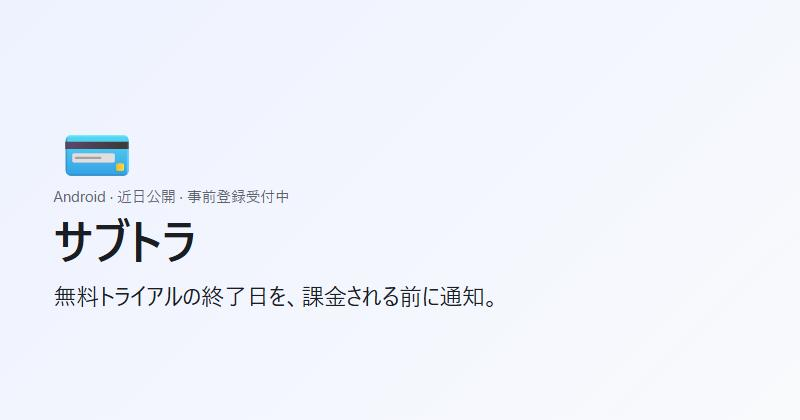
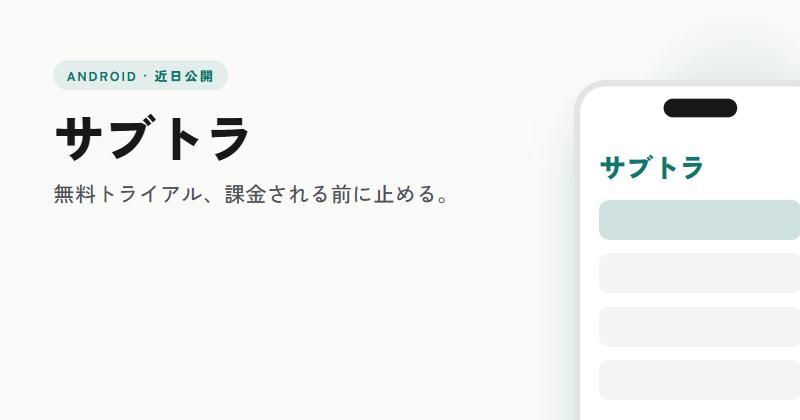
Redesign landing page: per-app accent, app preview, features grid, FAQ

diff --git a/docs/index.html b/docs/index.html
@@ -4,78 +4,203 @@
 <meta charset="utf-8">
 <meta name="viewport" content="width=device-width,initial-scale=1">
 <title>サブトラ | 近日公開 事前登録</title>
-<meta name="description" content="無料トライアルの終了日を、課金される前に通知。 Androidアプリ「サブトラ」の事前登録。">
-<meta property="og:title" content="サブトラ — 無料トライアルの終了日を、課金される前に通知。">
+<meta name="description" content="無料トライアル、課金される前に止める。 Androidアプリ「サブトラ」の事前登録。">
+<meta property="og:title" content="サブトラ | 無料トライアル、課金される前に止める。">
 <meta property="og:description" content="近日公開のAndroidアプリ。事前登録が多ければ優先してリリースします。">
 <meta property="og:image" content="https://is-gts.github.io/subtra/og.png">
 <meta property="og:url" content="https://is-gts.github.io/subtra/">
 <meta name="twitter:card" content="summary_large_image">
+<meta name="theme-color" content="#0f766e">
+<link rel="preconnect" href="https://fonts.googleapis.com"><link rel="preconnect" href="https://fonts.gstatic.com" crossorigin>
+<link href="https://fonts.googleapis.com/css2?family=Zen+Kaku+Gothic+New:wght@400;500;700;900&display=swap" rel="stylesheet">
 <style>
-:root{--bg:#f6f7f9;--card:#fff;--fg:#1a1d21;--muted:#5c6470;--line:#e3e6ea;--accent:#2563eb;--ok:#15803d}
-@media(prefers-color-scheme:dark){:root{--bg:#0f1115;--card:#181b21;--fg:#eceef1;--muted:#9aa3ad;--line:#2a2f37;--accent:#60a5fa;--ok:#4ade80}}
+:root{--bg:#fafaf9;--bg2:#f4f4f3;--fg:#18181b;--muted:#5b5b63;--line:#e4e4e7;--card:#ffffff;--accent:#0f766e;--accent-fg:#ffffff;--soft:color-mix(in srgb,#0f766e 9%,#fafaf9);--soft2:color-mix(in srgb,#0f766e 18%,#fafaf9);--ok:#15803d;--shadow:0 20px 60px -20px color-mix(in srgb,#0f766e 35%,transparent)}
+@media(prefers-color-scheme:dark){:root{--bg:#121214;--bg2:#18181b;--fg:#f4f4f5;--muted:#a1a1aa;--line:#2a2a30;--card:#1c1c21;--accent:#2dd4bf;--accent-fg:#101012;--soft:color-mix(in srgb,#2dd4bf 12%,#121214);--soft2:color-mix(in srgb,#2dd4bf 22%,#121214);--ok:#4ade80;--shadow:0 20px 60px -20px rgba(0,0,0,.6)}}
 *{box-sizing:border-box}
-body{margin:0;background:var(--bg);color:var(--fg);font:16px/1.6 system-ui,-apple-system,"Segoe UI",Roboto,"Hiragino Sans","Noto Sans JP",sans-serif}
-main{max-width:560px;margin:0 auto;padding:48px 16px 64px}
-.icon{font-size:64px;line-height:1;margin-bottom:12px}
-h1{font-size:clamp(30px,7vw,42px);line-height:1.25;margin:0 0 8px}
-.pitch{font-size:20px;font-weight:600;margin:0 0 20px}
-ul{margin:0 0 28px;padding-left:20px;color:var(--muted)}
-.badge{display:inline-block;font-size:13px;color:var(--muted);border:1px solid var(--line);border-radius:999px;padding:2px 10px;margin-bottom:16px}
-form{display:flex;gap:8px}
-input[type=email]{flex:1;min-width:0;padding:12px 14px;border:1px solid var(--line);border-radius:8px;background:var(--card);color:var(--fg);font-size:16px}
-button{padding:12px 18px;border:0;border-radius:8px;background:var(--accent);color:#fff;font-weight:600;font-size:16px;cursor:pointer;white-space:nowrap}
-button:disabled{opacity:.6;cursor:default}
-.msg{font-size:14px;min-height:1.4em;margin:8px 0 0}
-.msg.ok{color:var(--ok)}
-.hp{position:absolute;left:-9999px}
-.features{margin-top:48px;padding-top:32px;border-top:1px solid var(--line)}
-.features h2{font-size:22px;margin:0 0 20px}
-.features dl{margin:0;display:grid;gap:18px}
-.features dt{font-weight:600;margin:0 0 2px}
-.features dd{margin:0;color:var(--muted);font-size:15px}
-footer{margin-top:40px;color:var(--muted);font-size:13px}
+html{scroll-behavior:smooth}
+body{margin:0;background:var(--bg);color:var(--fg);font-family:"Zen Kaku Gothic New",system-ui,-apple-system,"Hiragino Sans","Noto Sans JP",sans-serif;font-size:16px;line-height:1.7;-webkit-font-smoothing:antialiased}
+.wrap{max-width:1080px;margin:0 auto;padding:0 20px}
+header{display:flex;align-items:center;justify-content:space-between;height:64px}
+.brand{font-weight:900;font-size:18px;display:flex;align-items:center;gap:10px}
+.brand i{width:12px;height:12px;border-radius:4px;background:var(--accent);display:inline-block}
+.tag{font-size:13px;color:var(--muted);font-weight:500}
+
+.hero{display:grid;grid-template-columns:1.1fr .9fr;gap:48px;align-items:center;padding:16px 0 72px;min-height:calc(100dvh - 64px)}
+.hero h1{font-size:clamp(32px,4vw,46px);line-height:1.22;font-weight:900;letter-spacing:-.01em;margin:0 0 18px}
+.hero p.sub{font-size:17px;color:var(--muted);margin:0 0 28px;max-width:34em}
+.eyebrow{display:inline-block;font-size:12px;font-weight:700;letter-spacing:.14em;color:var(--accent);background:var(--soft);padding:5px 12px;border-radius:999px;margin-bottom:18px}
+
+.reg label{display:block;font-size:13px;font-weight:700;margin-bottom:6px}
+.reg .row{display:flex;gap:8px}
+.reg input[type=email]{flex:1;min-width:0;padding:13px 14px;border:1.5px solid var(--line);border-radius:12px;background:var(--card);color:var(--fg);font:inherit;font-size:16px;transition:border-color .2s,box-shadow .2s}
+.reg input[type=email]::placeholder{color:#8a8a93}
+.reg input[type=email]:focus{outline:0;border-color:var(--accent);box-shadow:0 0 0 4px var(--soft2)}
+.reg button{padding:13px 22px;border:0;border-radius:12px;background:var(--accent);color:var(--accent-fg);font:inherit;font-weight:700;font-size:16px;cursor:pointer;white-space:nowrap;transition:transform .12s,filter .2s}
+.reg button:hover{filter:brightness(1.08)}
+.reg button:active{transform:scale(.97)}
+.reg button:disabled{opacity:.55;cursor:default;transform:none}
+.msg{font-size:14px;min-height:1.5em;margin:8px 0 0;color:var(--muted)}
+.msg.ok{color:var(--ok);font-weight:700}
+.msg.err{color:#dc2626}
+.hp{position:absolute;left:-9999px;width:1px;height:1px}
+.note{font-size:12.5px;color:var(--muted);margin:10px 0 0}
+
+.stage{display:flex;justify-content:center;position:relative}
+.stage::before{content:"";position:absolute;inset:10% -10% 0;background:radial-gradient(60% 60% at 50% 60%,var(--soft2),transparent 70%);z-index:0;pointer-events:none}
+.phone{position:relative;z-index:1;width:300px;aspect-ratio:9/18.5;border-radius:38px;background:var(--card);border:1px solid var(--line);box-shadow:var(--shadow),0 0 0 8px color-mix(in srgb,var(--fg) 6%,transparent);padding:48px 16px 20px;overflow:hidden;transform:rotate(-3deg)}
+.phone::before{content:"";position:absolute;top:14px;left:50%;width:84px;height:22px;transform:translateX(-50%);border-radius:999px;background:color-mix(in srgb,var(--fg) 85%,var(--bg))}
+.m-top{display:flex;justify-content:space-between;align-items:baseline;margin-bottom:12px}
+.m-top span{font-size:12px;color:var(--muted)}
+.m-top strong{font-size:22px;font-weight:900}
+.m-row{display:flex;justify-content:space-between;align-items:center;padding:11px 12px;border-radius:12px;background:var(--bg2);margin-bottom:8px;font-size:13px}
+.m-row b{display:block;font-weight:700}
+.m-row small{color:var(--muted);font-size:11px}
+.m-row em{font-style:normal;color:var(--muted);font-size:12px;white-space:nowrap}
+.m-row.m-hot{background:var(--soft2)}
+.m-row.m-hot em{color:var(--accent);font-weight:700}
+.m-route{position:relative;margin:6px 0 14px}
+.m-route::before{content:"";position:absolute;left:5px;top:12px;bottom:12px;width:2px;background:var(--line)}
+.m-st{display:grid;grid-template-columns:12px 1fr auto;gap:12px;align-items:center;padding:9px 0;font-size:13px;position:relative}
+.m-st i{width:12px;height:12px;border-radius:50%;border:2px solid var(--line);background:var(--card)}
+.m-st small{color:var(--muted);font-size:11px}
+.m-st.done i{background:var(--line)}
+.m-st.now i{border-color:var(--accent);background:var(--accent);box-shadow:0 0 0 5px var(--soft2)}
+.m-st.alert i{border-color:var(--accent)}
+.m-st.alert small{color:var(--accent);font-weight:700}
+.m-cta{margin-top:10px;text-align:center;padding:11px;border-radius:12px;background:var(--accent);color:var(--accent-fg);font-weight:700;font-size:13px}
+.m-grid{display:grid;grid-template-columns:1fr 1fr;gap:8px;margin-bottom:12px}
+.m-food{padding:10px 11px;border-radius:12px;background:var(--bg2);font-size:13px}
+.m-food b{display:block;font-weight:700}
+.m-food em{font-style:normal;font-size:11px;color:var(--muted)}
+.m-food.hot{background:var(--soft2)} .m-food.hot em{color:var(--accent);font-weight:700}
+.m-food.warn em{color:var(--accent)}
+.m-emoji{display:flex;justify-content:space-between;font-size:26px;margin:4px 2px 14px}
+.m-emoji span{padding:6px;border-radius:12px;line-height:1}
+.m-emoji .sel{background:var(--soft2);box-shadow:0 0 0 2px var(--accent)}
+.m-cal{display:grid;grid-template-columns:repeat(7,1fr);gap:6px;margin-bottom:12px}
+.m-cal i{aspect-ratio:1;border-radius:8px;background:var(--bg2)}
+.m-cal i.a{background:var(--accent)} .m-cal i.b{background:color-mix(in srgb,var(--accent) 55%,var(--bg2))} .m-cal i.c{background:color-mix(in srgb,var(--accent) 30%,var(--bg2))}
+.m-cal i.now{box-shadow:inset 0 0 0 2px var(--accent)}
+
+section{padding:72px 0}
+section h2{font-size:clamp(26px,3.4vw,36px);font-weight:900;letter-spacing:-.01em;line-height:1.3;margin:0 0 10px}
+section .lead{color:var(--muted);margin:0 0 36px;max-width:36em}
+.feat{display:grid;grid-template-columns:repeat(3,1fr);gap:14px}
+.feat article{padding:26px 24px;border-radius:16px;background:var(--card);border:1px solid var(--line)}
+.feat article:nth-child(1){grid-column:span 2;background:var(--soft)}
+.feat article:nth-child(4){background:var(--soft)}
+.feat h3{margin:0 0 8px;font-size:17px;font-weight:700}
+.feat p{margin:0;color:var(--muted);font-size:14.5px}
+
+.faq{background:var(--bg2);border-top:1px solid var(--line);border-bottom:1px solid var(--line)}
+.faq details{border-bottom:1px solid var(--line);padding:4px 0}
+.faq details:last-child{border-bottom:0}
+.faq summary{cursor:pointer;list-style:none;padding:16px 0;font-weight:700;display:flex;justify-content:space-between;gap:16px}
+.faq summary::-webkit-details-marker{display:none}
+.faq summary::after{content:"+";color:var(--accent);font-weight:400;font-size:22px;line-height:1}
+.faq details[open] summary::after{content:"−"}
+.faq details p{margin:0 0 18px;color:var(--muted);max-width:40em}
+
+.final{text-align:center}
+.final .lead{margin-left:auto;margin-right:auto}
+.final .reg{max-width:480px;margin:0 auto;text-align:left}
+footer{padding:24px 0 40px;color:var(--muted);font-size:12.5px;border-top:1px solid var(--line)}
+
+@media(prefers-reduced-motion:no-preference){
+.hero>*{animation:up .7s cubic-bezier(.16,1,.3,1) both}
+.hero>.stage{animation-delay:.15s}
+@keyframes up{from{opacity:0;transform:translateY(16px)}to{opacity:1;transform:none}}
+}
+@media(max-width:860px){
+.hero{grid-template-columns:1fr;gap:40px;padding:24px 0 56px;min-height:0}
+.stage{order:2}
+.phone{width:260px;transform:none}
+.feat{grid-template-columns:1fr}
+.feat article:nth-child(1){grid-column:auto}
+section{padding:56px 0}
+}
+@media(max-width:420px){.reg .row{flex-direction:column}.reg button{width:100%}}
 </style>
 </head>
 <body>
-<main>
-<div class="icon">💳</div>
-<span class="badge">Android · 近日公開</span>
-<h1>サブトラ</h1>
-<p class="pitch">無料トライアルの終了日を、課金される前に通知。</p>
-<ul><li>サブスク一覧と月額合計を一画面で</li><li>トライアル終了・更新日の前日にアラート</li><li>解約手順へのリンク付き</li></ul>
-<form><input type="email" name="email" placeholder="メールアドレス" required autocomplete="email"><input class="hp" name="hp" tabindex="-1" autocomplete="off"><button>事前登録</button></form>
-<p class="msg"></p>
-<section class="features">
-<h2>できること</h2>
-<dl>
-<dt>サブスク一覧</dt><dd>Netflix、Spotify、Amazonプライムなど、契約中のサービスを一覧で管理。月額・年額の合計もひと目でわかります。</dd>
-<dt>無料トライアル終了アラート</dt><dd>トライアルの終了日を登録しておくと、前日と当日に通知。「気づいたら課金されていた」を防ぎます。</dd>
-<dt>更新日の事前通知</dt><dd>年払いなど忘れがちな自動更新も、更新日の数日前にお知らせ。続けるかどうかを落ち着いて判断できます。</dd>
-<dt>解約手順へのリンク</dt><dd>各サービスの解約ページ・手順へのリンクをアプリ内に用意。探し回らずにその場で解約できます。</dd>
-<dt>支出の振り返り</dt><dd>月ごとのサブスク支出をグラフで表示。使っていないサービスに気づけます。</dd>
-<dt>オフライン動作・アカウント不要</dt><dd>データは端末内に保存。登録やログインなしですぐ使えます。</dd>
-</dl>
+<div class="wrap">
+<header><div class="brand"><i></i>サブトラ</div><span class="tag">Android アプリ</span></header>
+
+<section class="hero">
+<div>
+<span class="eyebrow">近日公開</span>
+<h1>無料トライアル、<br>課金される前に止める。</h1>
+<p class="sub">契約中のサブスクと無料トライアルをまとめて管理。終了日の前日に通知するので、気づいたら課金されていたがなくなります。</p>
+<form class="reg" novalidate>
+<label for="email-hero">メールアドレス</label>
+<div class="row"><input id="email-hero" type="email" name="email" placeholder="you@example.com" required autocomplete="email" inputmode="email"><input class="hp" name="hp" tabindex="-1" autocomplete="off"><button type="submit">事前登録</button></div>
+<p class="msg" aria-live="polite"></p>
+</form>
+<p class="note">登録は無料。公開時にメールで1通だけお知らせします。</p>
+</div>
+<div class="stage"><div class="phone" aria-hidden="true">
+<div class="m-top"><span>今月の合計</span><strong>¥4,270</strong></div>
+<div class="m-row m-hot"><div><b>Netflix</b><small>無料トライアル</small></div><em>あと2日</em></div>
+<div class="m-row"><div><b>Spotify</b><small>月額 ¥980</small></div><em>11/18 更新</em></div>
+<div class="m-row"><div><b>Amazonプライム</b><small>年額 ¥5,900</small></div><em>3月 更新</em></div>
+<div class="m-row"><div><b>iCloud+</b><small>月額 ¥130</small></div><em>11/27 更新</em></div>
+</div></div>
 </section>
-<footer>登録は無料。公開時にメールで1通だけお知らせします。メールアドレスはリリース通知のみに使用し、第三者には提供しません。</footer>
-</main>
+
+<section id="features">
+<h2>できること</h2>
+<p class="lead">「サブトラ」で使える機能です。事前登録の数を見て開発に入るため、内容は変わることがあります。</p>
+<div class="feat">
+<article><h3>サブスク一覧と月額合計</h3><p>Netflix、Spotify、Amazonプライムなど契約中のサービスを一覧で。月額換算の合計がひと目でわかります。</p></article>
+<article><h3>トライアル終了アラート</h3><p>終了日を登録しておくと、前日と当日に通知。課金される前に続けるか決められます。</p></article>
+<article><h3>更新日の事前通知</h3><p>年払いなど忘れがちな自動更新も、数日前にお知らせ。</p></article>
+<article><h3>解約手順へのリンク</h3><p>各サービスの解約ページへのリンクをアプリ内に用意。探し回らずにその場で解約できます。</p></article>
+<article><h3>支出の振り返り</h3><p>月ごとのサブスク支出をグラフで表示。使っていないサービスに気づけます。</p></article>
+<article><h3>アカウント不要</h3><p>データは端末内に保存。登録もログインも不要で、インストールしてすぐ使えます。</p></article>
+</div>
+</section>
+</div>
+
+<section class="faq"><div class="wrap">
+<h2>よくある質問</h2>
+<details><summary>無料ですか？</summary><p>はい。基本機能は無料です。広告なしの有料版を後から用意する可能性はありますが、事前登録した方には割引を予定しています。</p></details>
+<details><summary>銀行やカードと連携しますか？</summary><p>いいえ。サービス名と金額、更新日を手で入力する方式です。口座情報は一切扱いません。</p></details>
+<details><summary>いつ公開されますか？</summary><p>事前登録の数で優先順位を決めます。着手後は2〜3か月を目安にしています。</p></details>
+</div></section>
+
+<div class="wrap">
+<section class="final">
+<h2>欲しいと思ったら、事前登録を。</h2>
+<p class="lead">登録が多いアプリから順に作ります。あなたの1票で優先順位が決まります。</p>
+<form class="reg" novalidate>
+<label for="email-final">メールアドレス</label>
+<div class="row"><input id="email-final" type="email" name="email" placeholder="you@example.com" required autocomplete="email" inputmode="email"><input class="hp" name="hp" tabindex="-1" autocomplete="off"><button type="submit">事前登録</button></div>
+<p class="msg" aria-live="polite"></p>
+</form>
+</section>
+<footer>メールアドレスはリリース通知のみに使用し、第三者には提供しません。</footer>
+</div>
+
 <script>
 const ENDPOINT = "https://script.google.com/macros/s/AKfycbyzV1WIYIxnYVrx0GkV5e0CbnglA2Yu3JSZlw0mKB-JGQSZEI5FeUPZIB5cYhRjBg8wOw/exec";
 const APP = "subtra", KEY = "preregistered-" + APP;
-const form = document.querySelector("form"), msg = document.querySelector(".msg");
-const mark = () => { form.querySelector("button").disabled = true; form.querySelector("input[type=email]").disabled = true; msg.textContent = "登録済みです。公開時にお知らせします。"; msg.className = "msg ok"; };
-if (localStorage.getItem(KEY)) mark();
-form.addEventListener("submit", async e => {
+const forms = [...document.querySelectorAll("form.reg")];
+const markAll = () => forms.forEach(f => { f.querySelector("button").disabled = true; f.querySelector("input[type=email]").disabled = true; const m = f.querySelector(".msg"); m.textContent = "登録済みです。公開時にお知らせします。"; m.className = "msg ok"; });
+if (localStorage.getItem(KEY)) markAll();
+forms.forEach(form => form.addEventListener("submit", async e => {
   e.preventDefault();
+  const input = form.querySelector("input[type=email]"), msg = form.querySelector(".msg"), btn = form.querySelector("button");
+  if (!/^[^\s@]+@[^\s@]+\.[^\s@]+$/.test(input.value.trim())) { msg.textContent = "メールアドレスの形式を確認してください。"; msg.className = "msg err"; input.focus(); return; }
   const fd = new FormData(form);
   fd.append("app", APP); fd.append("ref", document.referrer); fd.append("ua", navigator.userAgent);
-  form.querySelector("button").disabled = true; msg.className = "msg"; msg.textContent = "送信中…";
+  btn.disabled = true; msg.className = "msg"; msg.textContent = "送信中…";
   try {
     await fetch(ENDPOINT, { method: "POST", mode: "no-cors", body: fd });
-    localStorage.setItem(KEY, "1"); mark();
+    localStorage.setItem(KEY, "1"); markAll();
   } catch {
-    form.querySelector("button").disabled = false; msg.textContent = "送信に失敗しました。もう一度お試しください。";
+    btn.disabled = false; msg.textContent = "送信に失敗しました。もう一度お試しください。"; msg.className = "msg err";
   }
-});
+}));
 </script>
 </body>
 </html>

diff --git a/docs/og.html b/docs/og.html
@@ -1,14 +1,20 @@
 <!doctype html>
 <html lang="ja"><head><meta charset="utf-8"><title>OG</title>
+<link href="https://fonts.googleapis.com/css2?family=Zen+Kaku+Gothic+New:wght@500;900&display=swap" rel="stylesheet">
 <style>
-body{margin:0;width:1200px;height:630px;background:linear-gradient(135deg,#eef2ff,#f8fafc);color:#1a1d21;font-family:"Yu Gothic UI","Meiryo","Noto Sans JP",sans-serif;display:flex;flex-direction:column;justify-content:center;padding:0 80px;box-sizing:border-box}
-.i{font-size:96px;line-height:1;margin-bottom:20px}
-.b{font-size:22px;color:#5c6470;margin-bottom:8px}
-h1{font-size:72px;margin:0 0 16px;line-height:1.2}
-p{font-size:34px;margin:0;line-height:1.4}
+body{margin:0;width:1200px;height:630px;background:#fafaf9;color:#18181b;font-family:"Zen Kaku Gothic New",sans-serif;display:grid;grid-template-columns:1fr 420px;overflow:hidden}
+.l{padding:90px 0 0 80px}
+.e{display:inline-block;font-size:20px;font-weight:900;letter-spacing:.14em;color:#0f766e;background:color-mix(in srgb,#0f766e 10%,#fafaf9);padding:8px 20px;border-radius:999px;margin-bottom:28px}
+h1{font-size:76px;margin:0 0 20px;line-height:1.1;font-weight:900;letter-spacing:-.01em}
+p{font-size:32px;margin:0;line-height:1.45;font-weight:500;color:#52525b;max-width:620px}
+.r{position:relative}
+.r::before{content:"";position:absolute;inset:-20% -30% -20% 0;background:radial-gradient(50% 50% at 60% 50%,color-mix(in srgb,#0f766e 22%,#fafaf9),transparent 70%)}
+.b{position:absolute;right:-40px;top:120px;width:360px;height:700px;border-radius:48px;background:#fff;border:10px solid #e4e4e7;box-shadow:0 40px 80px -30px color-mix(in srgb,#0f766e 45%,transparent)}
+.b i{position:absolute;left:50%;top:18px;width:110px;height:28px;transform:translateX(-50%);border-radius:999px;background:#18181b}
+.b b{position:absolute;left:28px;right:28px;top:90px;font-size:40px;font-weight:900;color:#0f766e}
+.b s{position:absolute;left:28px;right:28px;height:60px;border-radius:16px;background:#f4f4f3;text-decoration:none}
+.b s.h{background:color-mix(in srgb,#0f766e 18%,#fafaf9)}
 </style></head><body>
-<div class="i">💳</div>
-<div class="b">Android · 近日公開 · 事前登録受付中</div>
-<h1>サブトラ</h1>
-<p>無料トライアルの終了日を、課金される前に通知。</p>
+<div class="l"><span class="e">ANDROID · 近日公開</span><h1>サブトラ</h1><p>無料トライアル、課金される前に止める。</p></div>
+<div class="r"><div class="b"><i></i><b>サブトラ</b><s class="h" style="top:170px"></s><s style="top:250px"></s><s style="top:330px"></s><s style="top:410px"></s></div></div>
 </body></html>
